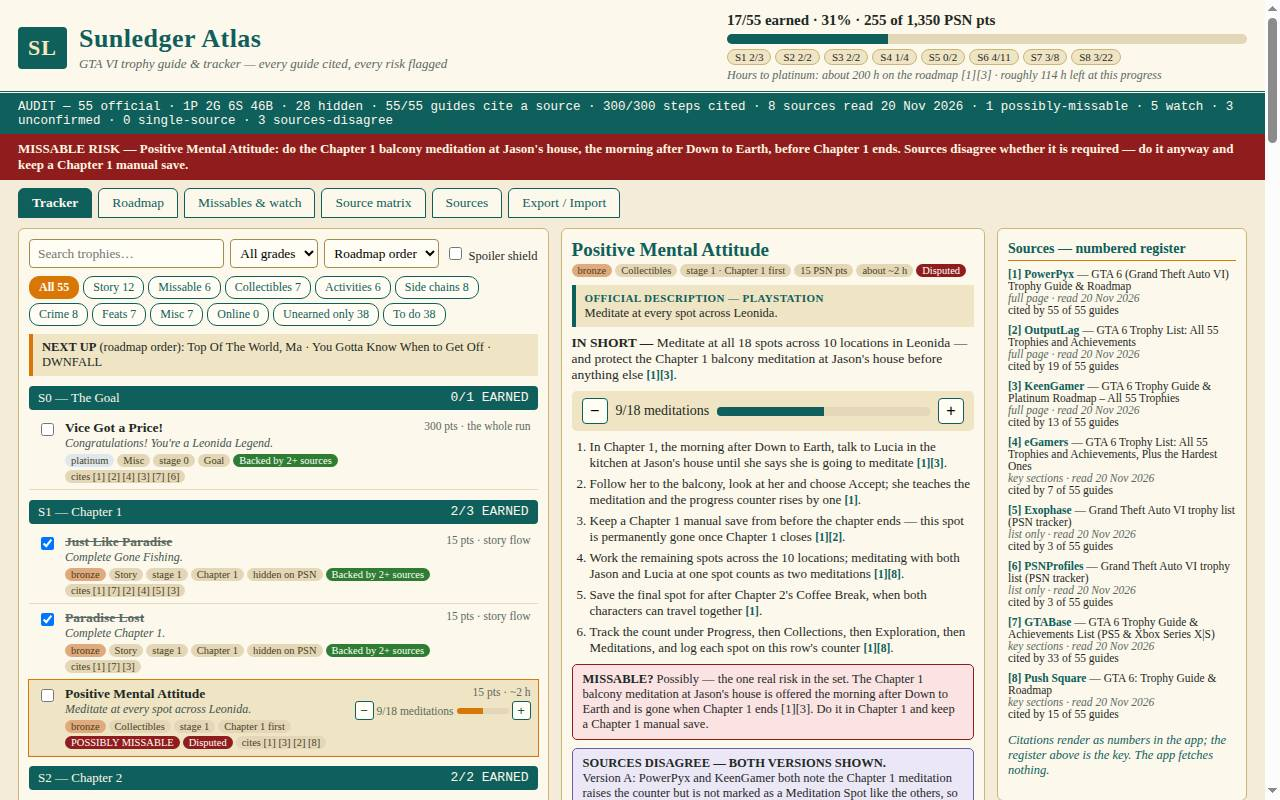
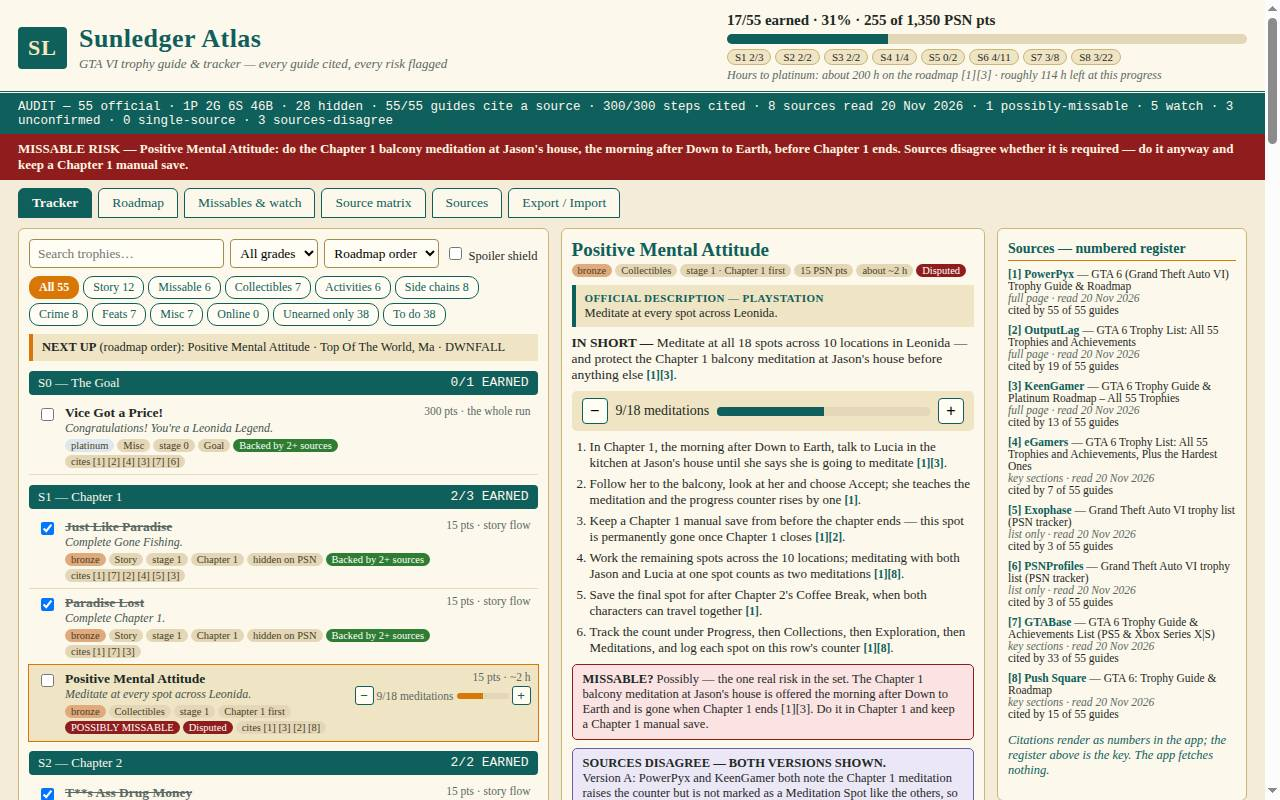
Revision pass 2: Next Up in true stage order; spoiler-shield-at-work panel in Export view; screenshots retaken

Changed region(s): [[0.0, 0.4062, 0.4375, 1.0], [0.3438, 0.75, 0.4062, 0.7812]]

diff --git a/app/app.js b/app/app.js
@@ -144,7 +144,7 @@ function renderTracker() {
   if (sort === 'name') list = [...list].sort((a, b) => a.name.localeCompare(b.name));
   if (sort === 'grade') list = [...list].sort((a, b) => b.points - a.points);
   if (sort === 'points') list = [...list].sort((a, b) => b.points - a.points);
-  const next = TROPHIES.filter((t) => isTodo(t) && t.stage > 0).slice(0, 3);
+  const next = TROPHIES.filter((t) => isTodo(t) && t.stage > 0).sort((a, b) => a.stage - b.stage || a.id - b.id).slice(0, 3);
   document.getElementById('next-up').innerHTML = '<b>NEXT UP</b> (roadmap order): ' + next.map((t) => shielded(t) ? 'Hidden trophy' : t.name).join(' · ');
   const box = document.getElementById('stage-list');
   if (sort === 'roadmap') {
@@ -293,7 +293,9 @@ function renderExport(msg) {
     <div class="panel"><h3>Saved state</h3>
     <p>Stored in this browser under the localStorage key <b>${KEY}</b>. Per-kind progress:</p>
     <ul>${Object.entries(byKind).map(([k, v]) => `<li>${KIND_LABEL[k] || k}: ${v[0]}/${v[1]} earned</li>`).join('')}</ul>
-    <button type="button" class="action danger" id="reset">Reset all progress</button></div></div></div>`;
+    <button type="button" class="action danger" id="reset">Reset all progress</button></div>
+    ${state.spoilers ? `<div class="panel"><h3>Spoiler shield at work</h3><p>The shield is ON: ${TROPHIES.filter((t) => shielded(t)).length} unearned story trophies currently show in the tracker like this —</p>${TROPHIES.filter((t) => shielded(t)).slice(0, 3).map((t) => `<p><span class="hidden-name">Hidden trophy</span> — stage ${t.stage} · story · ${t.grade} <button type="button" class="reveal-btn" data-shield-reveal="${t.id}">Reveal</button></p>`).join('')}</div>` : ''}
+    </div></div>`;
   document.getElementById('dl').addEventListener('click', () => {
     const a = document.createElement('a');
     a.href = URL.createObjectURL(new Blob([JSON.stringify(exportPayload(), null, 1)], { type: 'application/json' }));
@@ -318,6 +320,7 @@ function renderExport(msg) {
   document.getElementById('set-spoilers').addEventListener('change', (e) => { state.spoilers = e.target.checked; saveState(); syncControls(); renderAll(); });
   document.getElementById('set-unearned').addEventListener('change', (e) => { state.unearnedOnly = e.target.checked; saveState(); renderAll(); });
   document.getElementById('reset').addEventListener('click', () => { state = { earned: new Set(), counts: {}, spoilers: false, unearnedOnly: false }; revealed = new Set(); saveState(); syncControls(); renderAll(); renderExport('All progress reset.'); });
+  document.querySelectorAll('[data-shield-reveal]').forEach((b) => b.addEventListener('click', () => { revealed.add(Number(b.dataset.shieldReveal)); renderAll(); showView('export'); }));
 }
 
 function renderAll() { renderTracker(); renderRoadmap(); renderMissables(); renderMatrix(); renderSources(); renderExport(); }
